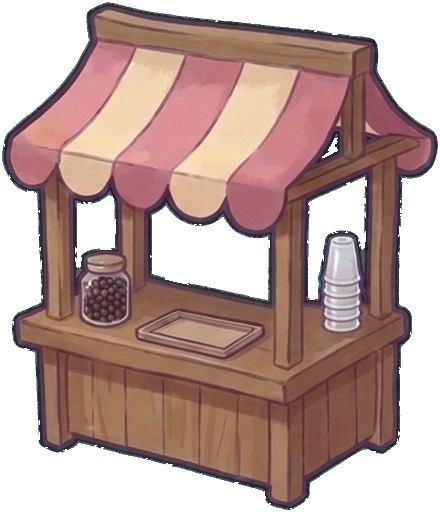
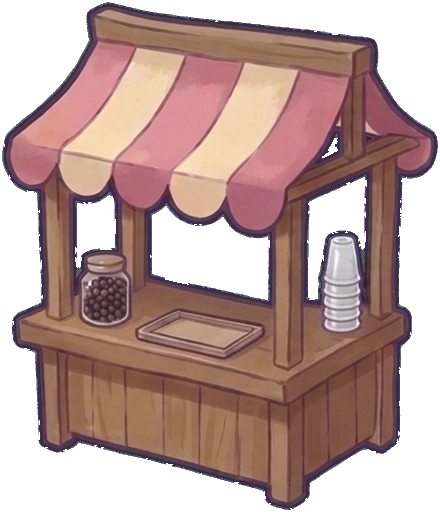
Round 9 art fix for #146: the milk tea stall's near-black outline is lifted to ink, and the art director's verdict carries the unrigged lop and plush rabbits over to #164.

diff --git a/docs/anh/qa/146-vong9-design/VERDICT.md b/docs/anh/qa/146-vong9-design/VERDICT.md
@@ -1,0 +1,7 @@
+# #146 vòng 9: kết luận art director cho mục 3
+
+Ngày 27/11. Bằng chứng: `quay-vien-truoc-sau.png` (quầy trước và sau trên cỏ, kèm phóng to mái phải).
+
+- (a) Viền quầy trà sữa gần đen (`#282737`–`#302B36`): **sửa**. Pixel viền trong 8 px quanh mép, tối hơn mực và ít sắc độ, đưa về mực `#3A2A4D`; vân gỗ bên trong giữ nguyên. Art director: đạt theo art bible mục 9.
+- (b) Thỏ tai cụp viền nâu và thỏ bông trắng viền xám: **tồn tại, chuyển issue #164**. Đây là sprite 2D cũ của giống chưa có rig, ADR-0007 mục 9 cho giữ hình riêng; không phải lỗi của #146.
+- Ngoài phạm vi: `Art/Final/product_am-tra.png` (icon món 2D) có hơi nước vẽ sẵn; B chuyển PO để gắn vào #136.
